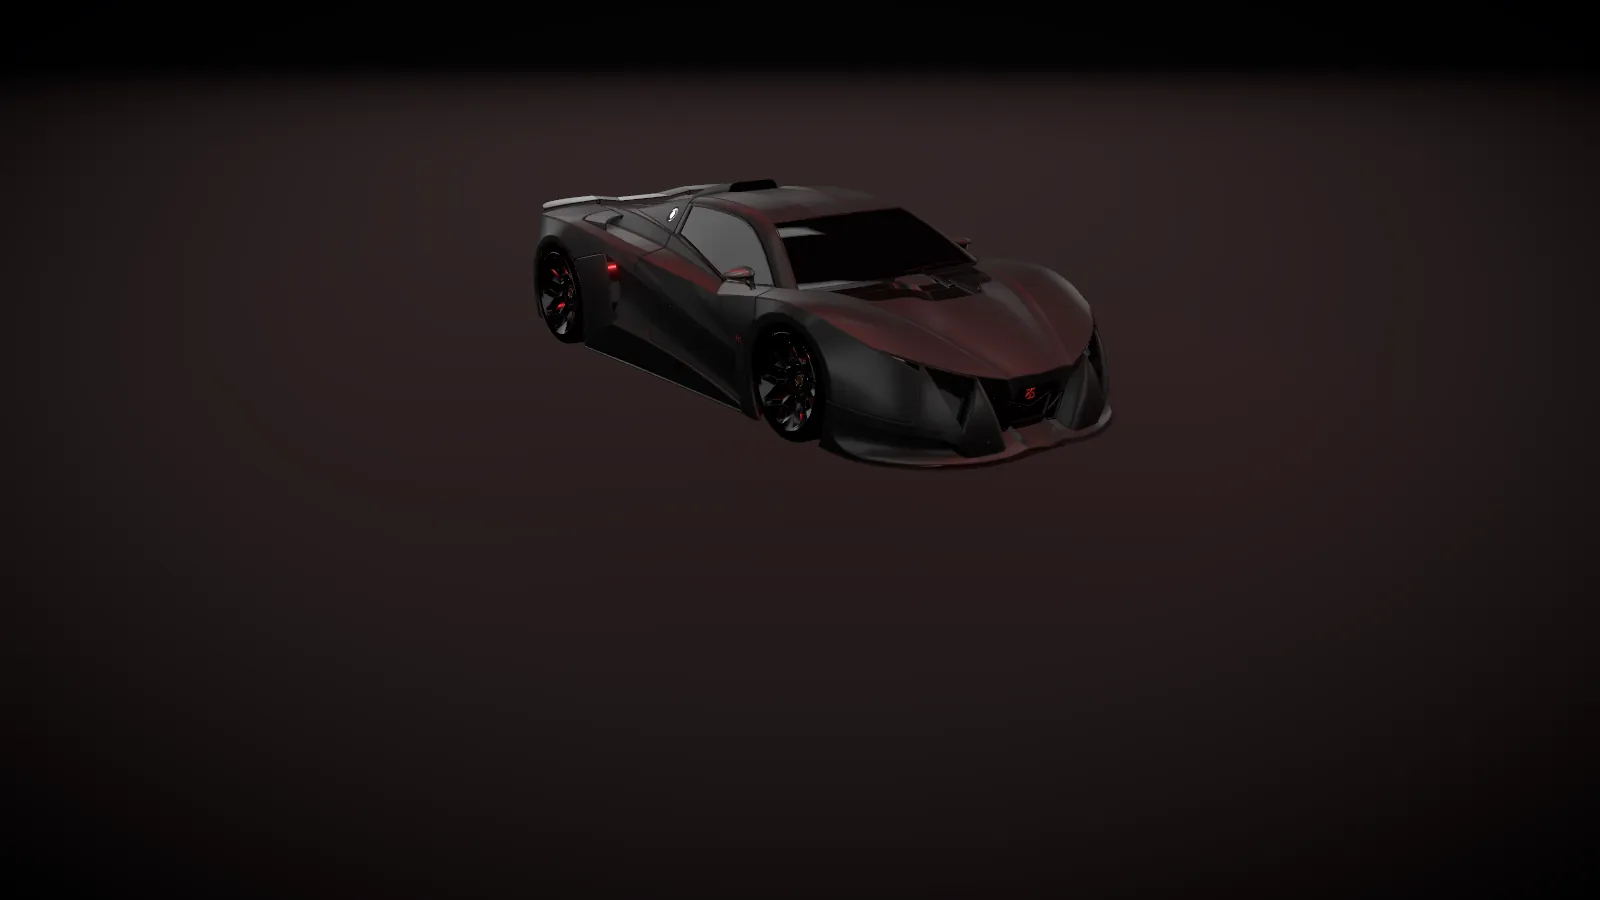
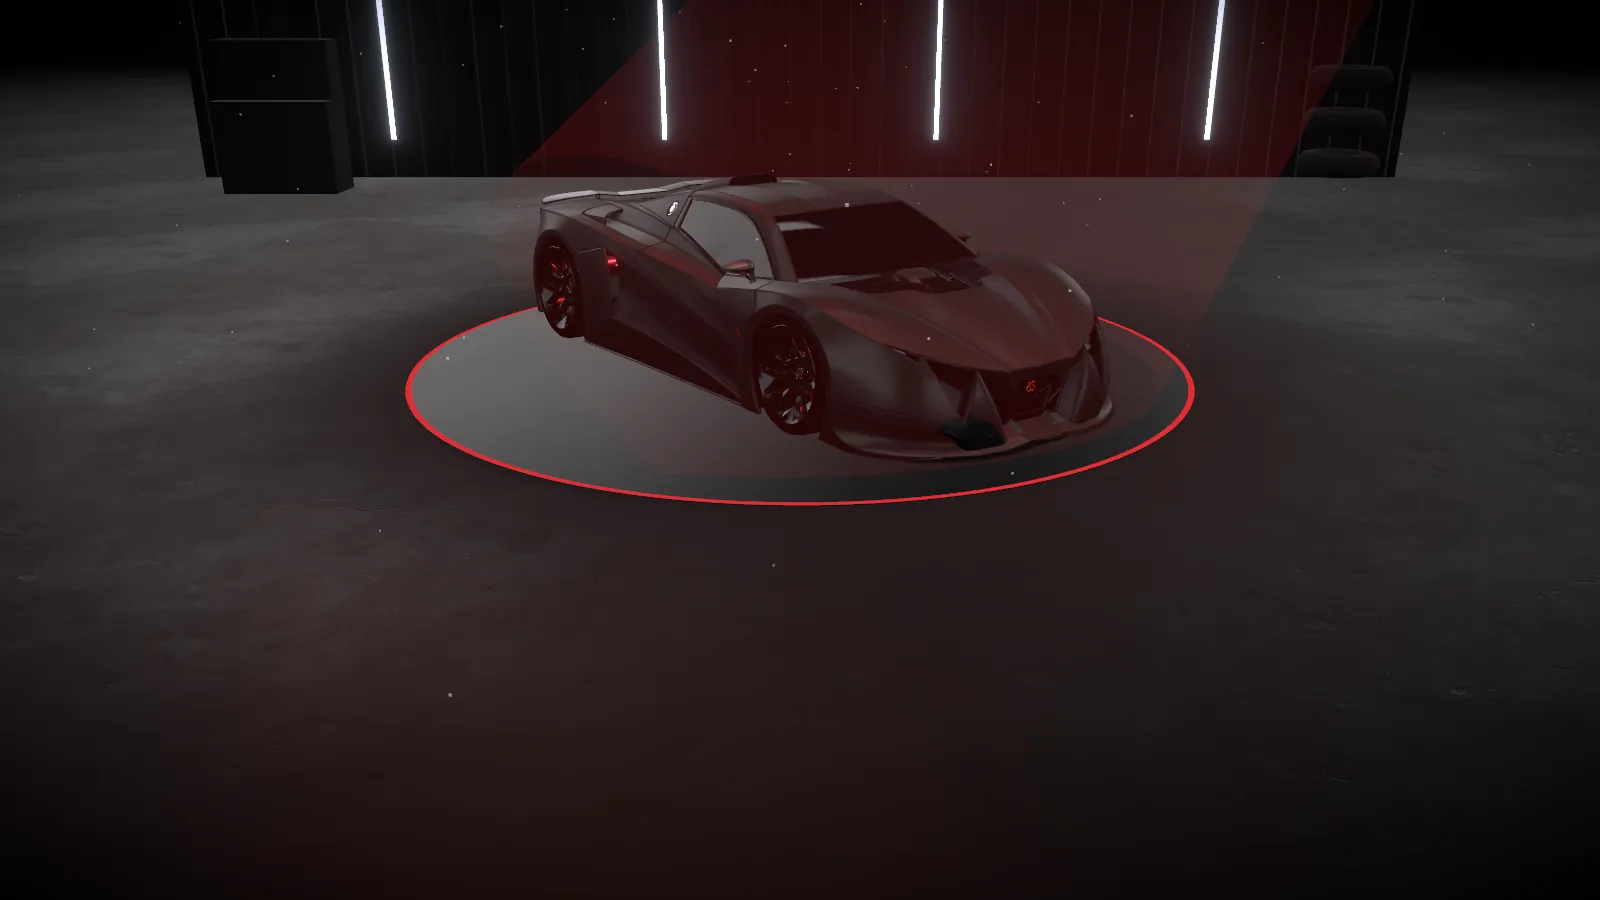
feat(settings): credit the Poly Haven textures; regenerate stills

diff --git a/src/pages/SettingsPage.tsx b/src/pages/SettingsPage.tsx
@@ -166,6 +166,13 @@ export function SettingsPage() {
           </a>
           」。
         </p>
+        <p>
+          材质来自 Poly Haven（CC0）：Jenelle van Heerden「
+          <a href="https://polyhaven.com/a/garage_floor" target="_blank" rel="noreferrer" className="underline">Garage Floor</a>
+          」、Amal Kumar「
+          <a href="https://polyhaven.com/a/box_profile_metal_sheet" target="_blank" rel="noreferrer" className="underline">Box Profile Metal Sheet</a>
+          」。
+        </p>
         <p>英文字体 Rajdhani，采用 SIL Open Font License 1.1。</p>
       </section>
     </section>

diff --git a/src/pages/SettingsPage.test.tsx b/src/pages/SettingsPage.test.tsx
@@ -81,5 +81,7 @@ describe('SettingsPage', () => {
     )
     expect(credits.getByRole('link', { name: 'Supercar rev' })).toHaveAttribute('href', 'https://freesound.org/people/richwise/sounds/478756/')
     expect(credits.getByRole('link', { name: 'Car Lock' })).toHaveAttribute('href', 'https://freesound.org/people/hz37/sounds/396448/')
+    expect(credits.getByRole('link', { name: 'Garage Floor' })).toHaveAttribute('href', 'https://polyhaven.com/a/garage_floor')
+    expect(credits.getByRole('link', { name: 'Box Profile Metal Sheet' })).toHaveAttribute('href', 'https://polyhaven.com/a/box_profile_metal_sheet')
   })
 })
